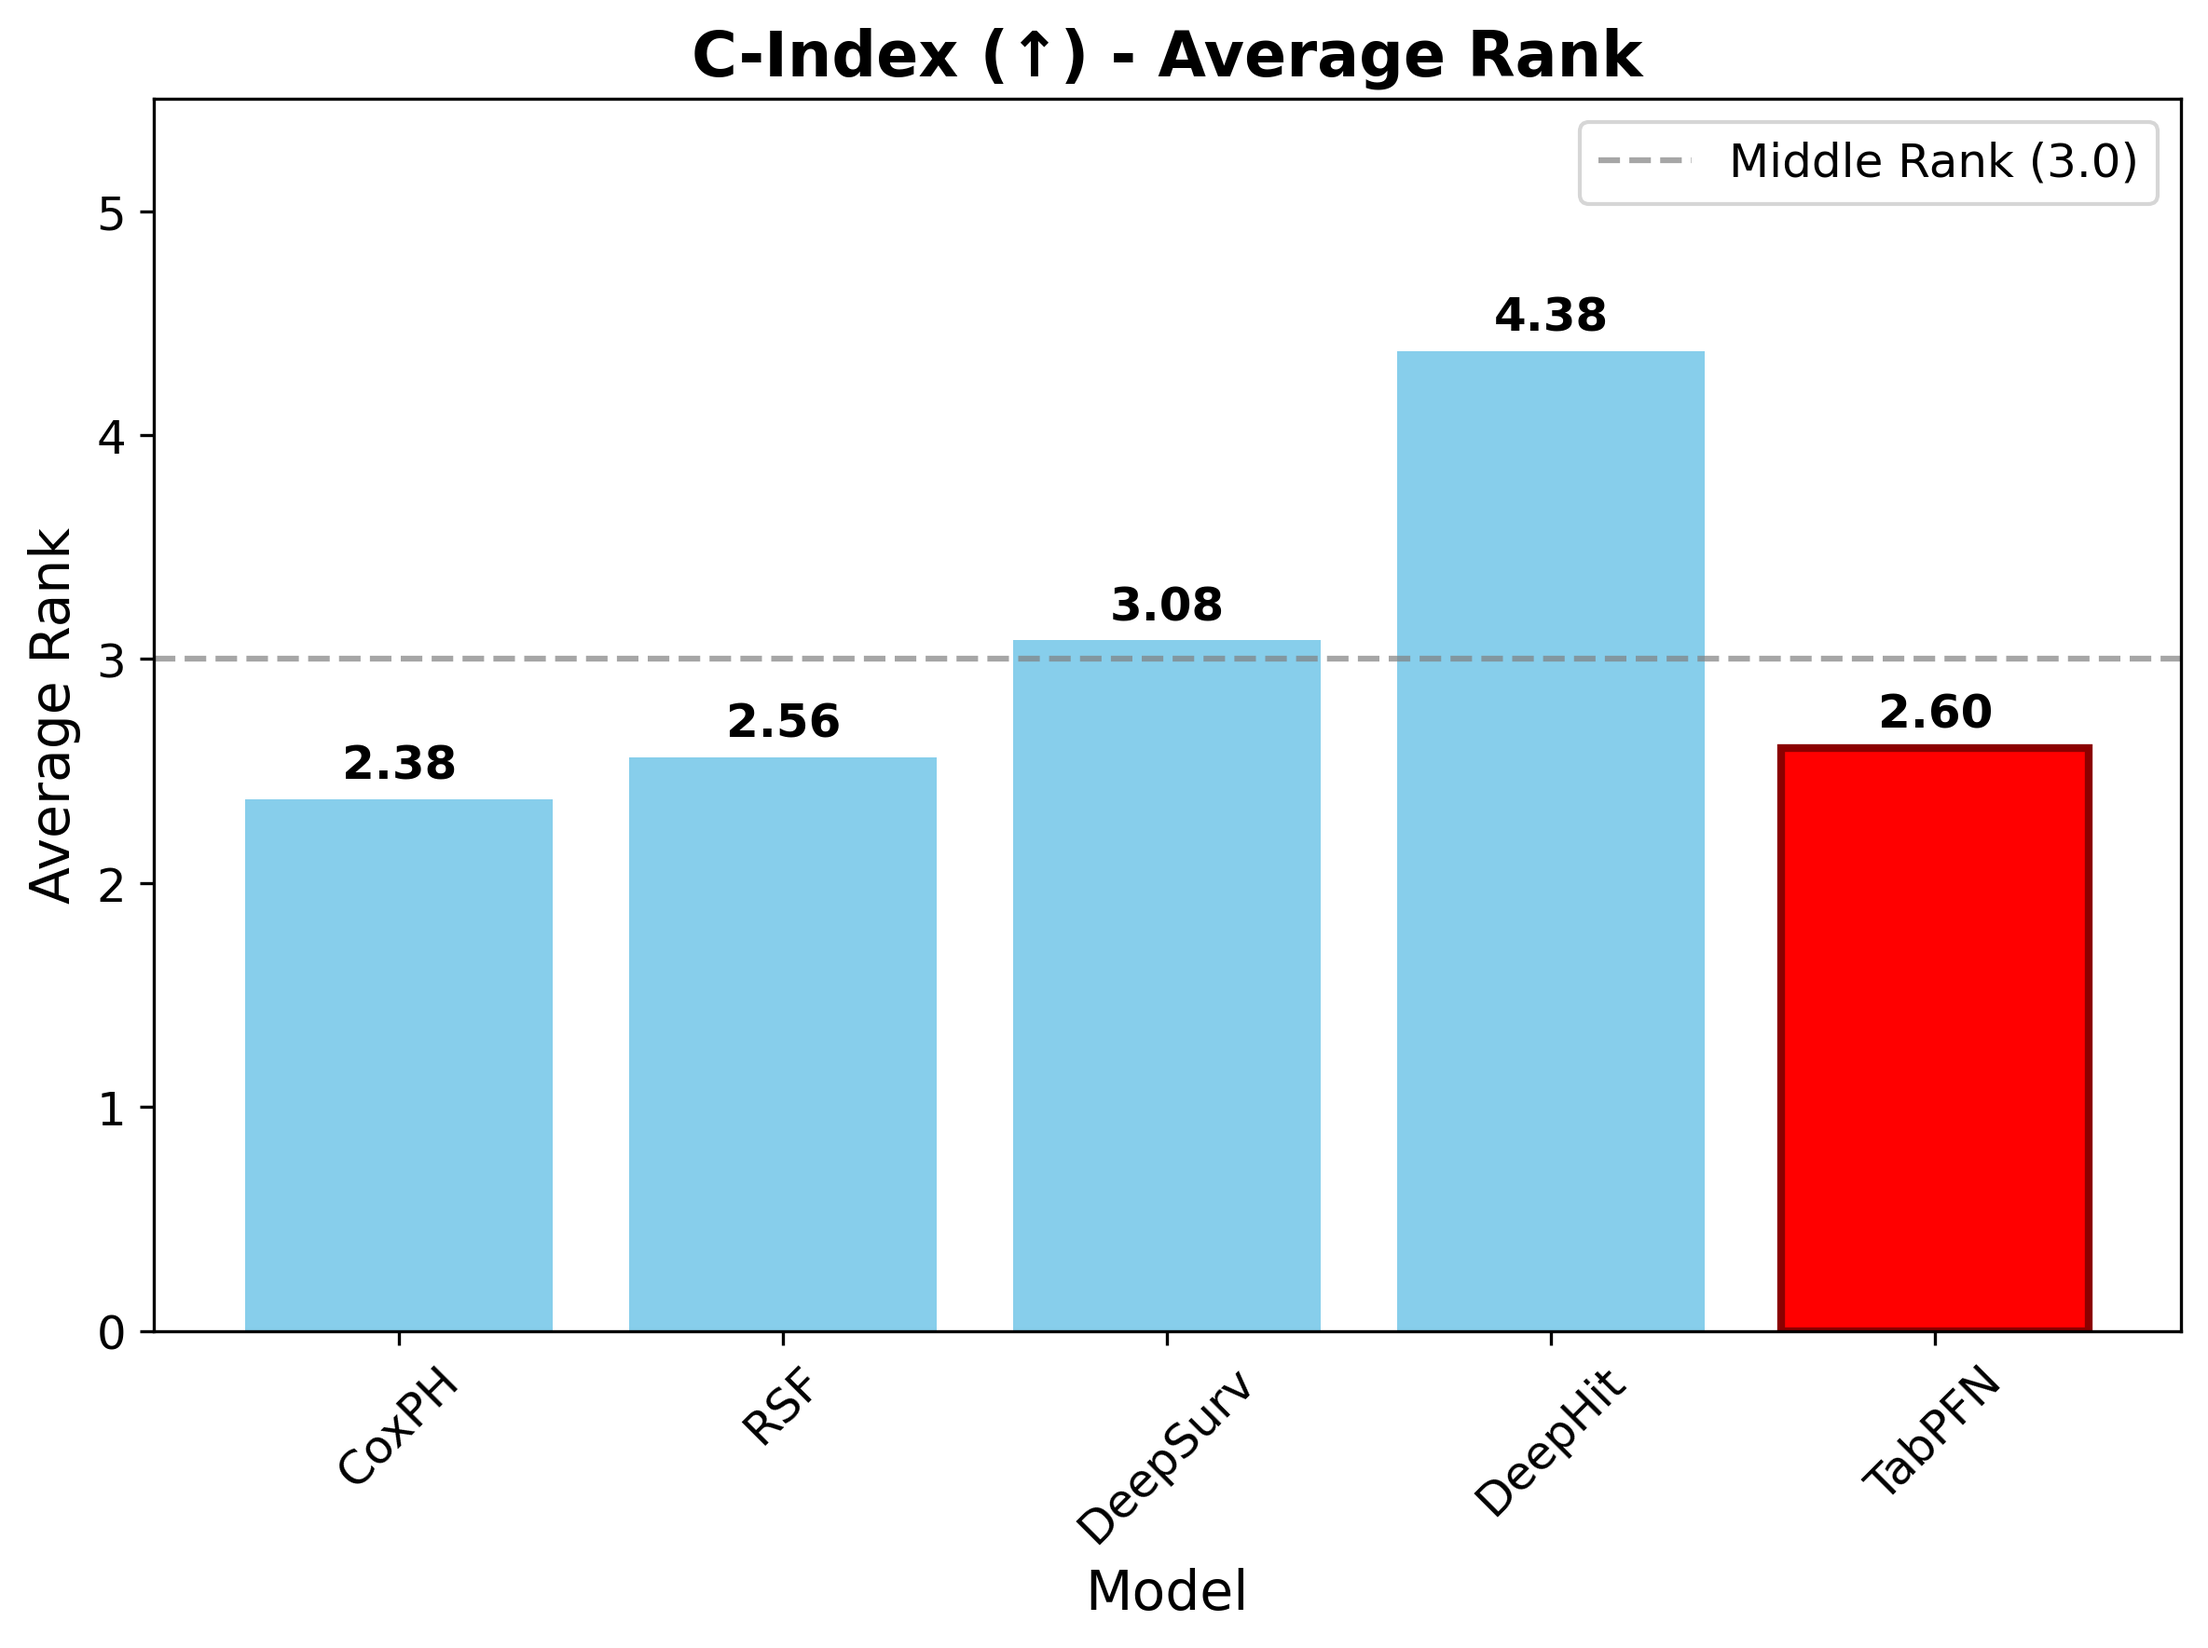
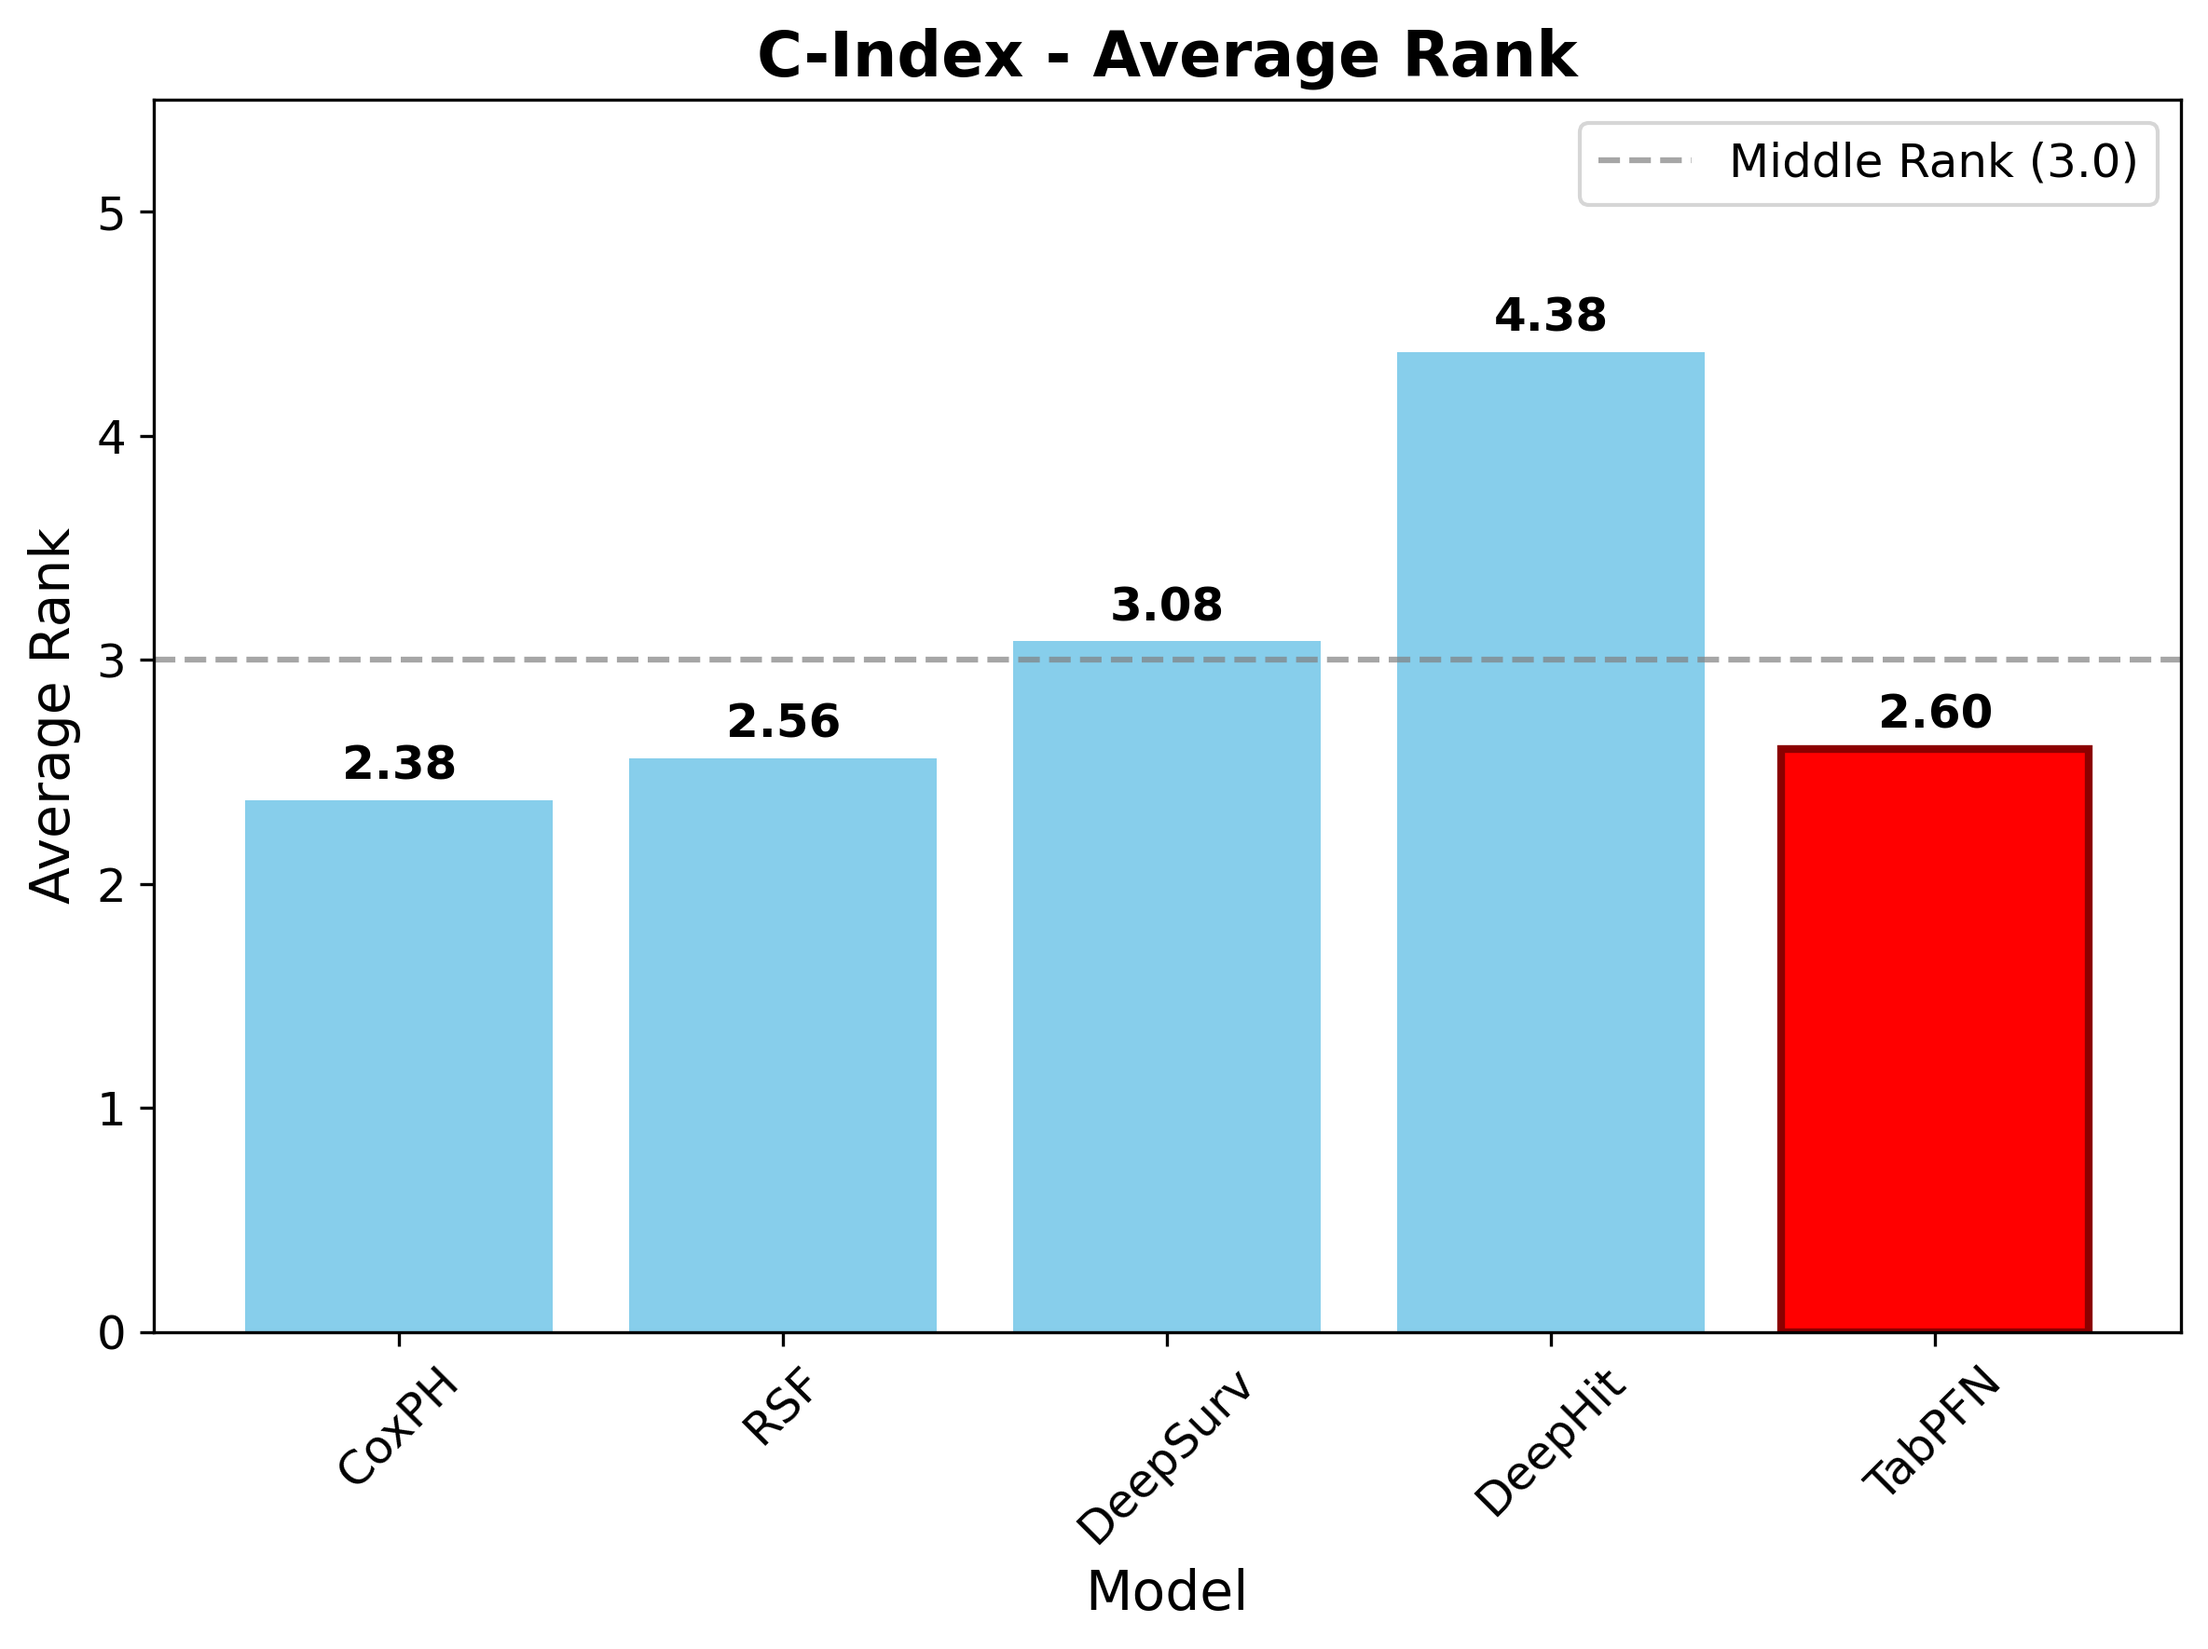
add final results

diff --git a/compare_performance.py b/compare_performance.py
@@ -214,7 +214,7 @@ def create_performance_comparison_table(df):
 def plot_average_ranks(avg_ranks_df):
     """Create visualization of average ranks and save each metric separately."""
     metrics = ['c_index', 'ibs', 'mean_auc']
-    metric_titles = ['C-Index (↑)', 'IBS (↓)', 'Mean AUC (↑)']
+    metric_titles = ['C-Index', 'IBS', 'Mean AUC']
     
     # Define model order
     model_order = ['CoxPH', 'RSF', 'DeepSurv', 'DeepHit', 'TabPFN']
@@ -261,7 +261,7 @@ def plot_win_rates(comparison_df):
     """Create visualization of win rates."""
     fig, axes = plt.subplots(1, 3, figsize=(15, 5))
     metrics = ['c_index', 'ibs', 'mean_auc']
-    metric_titles = ['C-Index (↑)', 'IBS (↓)', 'Mean AUC (↑)']
+    metric_titles = ['C-Index', 'IBS', 'Mean AUC']
     
     for i, (metric, title) in enumerate(zip(metrics, metric_titles)):
         data = comparison_df[comparison_df['metric'] == metric]
